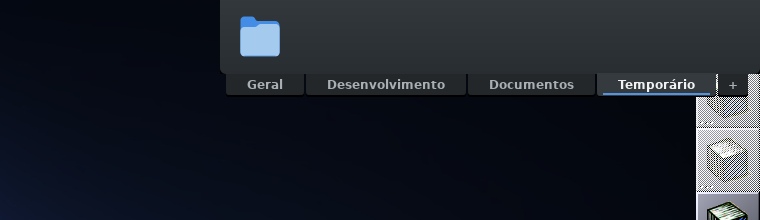
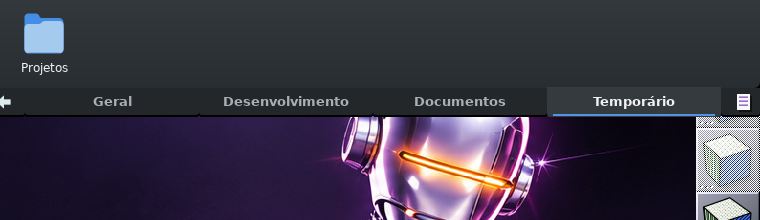
Big Tabbed Dock: testes e documentação da prateleira de ponta a ponta
- Testes de sessão: largura total por padrão (X11: x=0 e strut de toda a
  largura; Wayland: âncora esquerda+direita na largura útil), seta que
  recolhe e borda que traz de volta; auto-ocultar aceita a largura que o
  compositor dá.
- docs: referência do OPENSTEP 4.0 beta (largura, abas, botões, mármore),
  estilos Clássico/Ladrilhos/Moderno, Version=2 e migração, resultados
  (sessões: 105 PASS, 1 FAIL do wlmaker sem patch; integração do CI: 86
  PASS) e capturas reais novas.

diff --git a/docs/testes.md b/docs/testes.md
@@ -10,13 +10,22 @@ com login pelo greeter; o que depende disso está marcado como pendente.
 | Unitários do núcleo (GLib) | `meson test` — 5 programas, 23 casos: modelo, configuração (ida e volta, valores inválidos, recuperação de corrompido, .bak), índice .desktop e associação de janelas, coexistência (com `wdwrite` falso), lançamento (Exec com `%F`, nome de arquivo com `;$()'"`: nada executado por shell) | 5/5 ✅; também sob AddressSanitizer + LeakSanitizer + UBSan ✅ |
 | Estáticos do repositório | `tests/run.sh` (shellcheck, plists, .desktop, caminhos instalados, firstrun…) + passo novo do dock (build, testes, caminhos, tradução, proibição de `system`/`popen`/`sh -c`) | todos ✅ |
 | Pacote | `makepkg` do branch num contêiner `manjarolinux/base` limpo, como o CI | ✅ 4 pacotes (ver abaixo) |
-| Sessão X11 | Xvfb + Window Maker 0.96 + configuração do Big WindowMaker; mouse e teclado por `xdotool` | 37 ✅ |
-| Sessão Wayland | wlmaker `big-wm/protocols` `f11a08a` headless (pixman); ponteiro por `zwlr_virtual_pointer_v1` (`tests/tools/wlpointer.c`), teclado por `wtype` | 31 ✅, 1 ❌ (regressão do wlmaker), 2 pendentes |
-| Wayland com as propostas 0042–0044 | mesmo, wlmaker com os patches | 25 ✅ |
+| Integração do CI | `tests/integration/session-test.sh` no contêiner Manjaro fixado pelo CI, com os pacotes deste branch e os artefatos de big-windowmaker/packages (wlmaker pkgrel 7, que já traz 0042–0044) | 86 ✅, 0 ❌ ([resultados-integracao.tsv](resultados-integracao.tsv)) |
+| Sessão X11 | Xvfb + Window Maker 0.96 + configuração do Big WindowMaker; mouse e teclado por `xdotool` | 43 ✅ |
+| Sessão Wayland | wlmaker `big-wm/protocols` `f11a08a` **sem** patches, headless (pixman); ponteiro por `zwlr_virtual_pointer_v1` (`tests/tools/wlpointer.c`), teclado por `wtype` | 34 ✅, 1 ❌ (regressão do wlmaker, corrigida pelo 0044), 2 pendentes |
+| Wayland com 0042–0044 (= wlmaker empacotado hoje) | mesmo, wlmaker com os patches | 28 ✅ |
 | Memória (ASan) em uso real | dock compilado com `-Db_sanitize=address,undefined`, trocas de aba, lançamento, menu, arrasto, recarregar, preferências, sair (X11 e Wayland) | nenhum erro nem vazamento do código do dock (só alocações suprimidas de fontconfig/glib) |
 
-Resultados brutos: [resultados-2026-10-26.tsv](resultados-2026-10-26.tsv)
-(102 linhas: 93 PASS, 1 FAIL, 2 SKIP, 6 INFO).
+Resultados brutos das sessões: [resultados-sessoes.tsv](resultados-sessoes.tsv)
+(114 linhas: 105 PASS, 1 FAIL, 2 SKIP, 6 INFO).
+
+**Falha do CI corrigida (PR #3, run 40449635574)**: `wayland: dock com abas
+troca de aba (--tab)`. Reproduzida com o mesmo fluxo do CI: o `x11.sh` e o
+`wayland.sh` usam a mesma conta, o X11 deixava a aba Desenvolvimento ativa e
+o dock, corretamente, a lembrava no Wayland; o `--tab next` levava então a
+Documentos. O teste agora verifica essa memória entre sessões e troca a
+partir de uma aba conhecida (`--tab 1`, `--tab next`). Nenhuma mudança no
+dock foi necessária.
 
 ## Como reproduzir
 
@@ -37,7 +46,9 @@ num sistema real (`make install-*`, `meson install`) e aplicam o
 
 ## O que foi verificado em cada sessão
 
-**X11 (37 ✅)**: tipo dock e strut parcial; encostado na borda; 4 abas;
+**X11 (43 ✅)**: tipo dock e strut parcial; de ponta a ponta por padrão (x=0,
+1600 px, strut de 0 a 1599); a seta recolhe a prateleira (e tira a reserva),
+tocar a borda a traz de volta e ela fica (sem auto-ocultar); 4 abas;
 troca de aba por clique, rolagem, `Super+Alt+1`, `Super+Alt+PgDn` e `--tab`;
 lançar o xterm pelo dock; indicador e janela ativa; clique minimiza, clique
 restaura; botão do meio abre 2ª janela; clique alterna entre as janelas;
@@ -50,7 +61,9 @@ moderno + strut no topo; auto-ocultar (faixa, sem strut, reaparece na borda);
 preferências; `GDK_SCALE=2`; `--dock-mode=tabbed` grava `DisableDock` pelo
 `wdwrite` sem tocar o WMState e `both` reverte.
 
-**Wayland (31 ✅)**: cliente nativo em layer-shell; rastreamento por
+**Wayland (34 ✅)**: de ponta a ponta (âncora esquerda+direita; o wlmaker dá
+a largura útil, 1536 px ao lado do Clip); a seta recolhe e a borda traz de
+volta; cliente nativo em layer-shell; rastreamento por
 `ext-foreign-toplevel-list`; ancorado na borda; abas por clique, rolagem e
 `--tab`; lançar a calculadora (GTK 4) com indicador por app_id; clique num app
 que não pode ser ativado abre o menu de janelas (no pressionar do botão) em vez de duplicar; app
@@ -69,7 +82,7 @@ mesmo teste passa). **Pendentes**: tecla `Logo+Alt+N` no wlmaker (o `wtype` não
 aciona atalhos de dois modificadores no headless — o comando que ela chama é
 testado); religar uma saída (o headless do wlroots remove a saída desligada).
 
-**Com as propostas 0042–0044 (25 ✅)**: backend
+**Com as propostas 0042–0044 (28 ✅)**: backend
 `wayland-wlr-foreign-toplevel` (caps=31); estado ativo; clique minimiza;
 clique restaura e ativa; alternar entre duas janelas; zona exclusiva respeitada;
 e os demais testes funcionais iguais.
@@ -87,6 +100,7 @@ depois de iniciar o dock, com os caches descartados antes.
 |---|---|---|
 | Primeiro quadro (1ª execução, fria / seguintes) | 85,5 ms / 24,3 e 25,4 ms | 83,7 ms / 27,9 e 27,8 ms |
 | PSS / USS / RSS do dock | 25,5 / 18,0 / 41,4 MB | 26,4 / 17,1 / 42,3 MB |
+| PSS no fim do teste funcional, visual de ponta a ponta (mármore 2× 256×256, nomes) | 28,4 MB | 25,6 MB |
 | Threads | 7 | 8 |
 | CPU ociosa em 60 s | 0 ticks | 0 ticks |
 | PSS da sessão antes → depois | 77,5 → 124,1 MB | 30,6 → 82,0 MB |

diff --git a/docs/x11-wayland.md b/docs/x11-wayland.md
@@ -7,13 +7,13 @@ fora do dock (proposta pronta) · ❓ pendente de hardware/sessão real.
 |---|---|---|
 | Cliente nativo | ✅ janela `_NET_WM_WINDOW_TYPE_DOCK`, sem foco, em todas as áreas de trabalho | ✅ superfície `zwlr_layer_shell_v1` (camada TOP), sem nenhuma API X11 |
 | Posição e alinhamento | ✅ | ✅ (o wlmaker centraliza na **área útil**, descontando o Clip: o dock fica alguns pixels à direita do centro da tela — comportamento do compositor) |
-| Reserva de espaço | ✅ `_NET_WM_STRUT` + `_PARTIAL` (o Window Maker reserva a borda inteira; ícones e janelas maximizadas respeitam) | ⏳ zona exclusiva enviada corretamente; o wlmaker `f11a08a` (head atual do fork) **não** a aplica ao maximizar — regressão do próprio wlmaker, corrigida pela proposta 0044 (testado: a moldura passa a terminar no topo do dock); no snapshot anterior `c7bcb50` era respeitada |
+| Reserva de espaço | ✅ `_NET_WM_STRUT` + `_PARTIAL` (o Window Maker reserva a borda inteira; ícones e janelas maximizadas respeitam) | ✅ com o wlmaker empacotado (pkgrel 7, que inclui a proposta 0044); o head do fork `f11a08a` sem o 0044 não aplica a zona ao maximizar (regressão do wlmaker) |
 | Auto-ocultar | ✅ a janela fica no lugar e vira uma faixa de 4 px pela forma (o Window Maker ignora mover janelas dock) | ✅ a superfície encolhe para 4 px |
 | Vários monitores | 🔧 escolha por nome RandR, índice ou principal; ❓ não testado com dois monitores (o Xvfb dá um só ao GTK 3) | ✅ nome do conector por xdg-output (o GTK 3 diz "Unknown"), índice, ou a saída na origem; saída removida → volta para outra |
 | Mudança de resolução | ✅ (xrandr 1600×900 → 1280×720) | ✅ (wlr-randr) |
 | Escala HiDPI | ✅ `GDK_SCALE=2` | 🔧 escala inteira do GTK 3; fracionária vira escala inteira reduzida pelo compositor |
 | Aplicativos em execução | ✅ `_NET_CLIENT_LIST`, WM_CLASS, `_GTK_APPLICATION_ID`, pid | ✅ app_id pelo `ext-foreign-toplevel-list` |
-| Janela ativa / minimizada | ✅ `_NET_ACTIVE_WINDOW`, `_NET_WM_STATE_HIDDEN`/WM_STATE | ⏳ o protocolo ext não tem estado; com o patch proposto ✅ |
+| Janela ativa / minimizada | ✅ `_NET_ACTIVE_WINDOW`, `_NET_WM_STATE_HIDDEN`/WM_STATE | ✅ com o wlmaker empacotado (wlr-foreign-toplevel, proposta 0042); só com `ext-foreign-toplevel-list`, sem estado |
 | Ativar janela existente | ✅ `_NET_ACTIVE_WINDOW` (fonte 2, troca de área de trabalho) | 🔧 aplicativo DBusActivatable: `org.freedesktop.Application.Activate` com token xdg-activation (testado); os demais: menu com as janelas e "Nova janela" (nunca abre duplicata por engano); ⏳ com o patch ✅ |
 | Minimizar / restaurar / fechar | ✅ WM_CHANGE_STATE, `_NET_CLOSE_WINDOW` | ⏳ só com o patch proposto (testado com ele) |
 | Alternar janelas do mesmo app | ✅ clique e rolagem | ⏳ com o patch ✅ |
@@ -25,7 +25,7 @@ fora do dock (proposta pronta) · ❓ pendente de hardware/sessão real.
 | Token de lançamento | startup-notification (o Window Maker ignora) | ✅ `XDG_ACTIVATION_TOKEN` do GTK em todo lançamento |
 | Dock clássico junto | ✅ Dock do Window Maker à direita | ✅ `wlmdock` à direita |
 
-## O que falta no wlmaker (propostas, não aplicadas)
+## O que faltava no wlmaker (propostas, adotadas no pacote wlmaker pkgrel 7)
 
 Em [propostas/](propostas/), gerados contra uma cópia exportada do branch
 `big-wm/protocols` em `f11a08a` (o repositório do fork não foi alterado):

diff --git a/docs/propostas/README.md b/docs/propostas/README.md
@@ -1,7 +1,8 @@
-# Propostas fora deste repositório (não aplicadas)
+# Propostas fora deste repositório
 
-Nada aqui foi aplicado em `big-wm-packages`, `big-wm-iso-profiles` nem no fork
-`big-wm-wlmaker`: são diffs para revisão.
+Escritas como diffs para revisão. Os três patches do wlmaker foram adotados
+pelo pacote `wlmaker` de big-windowmaker/packages (pkgrel 7), que o CI deste
+repositório já usa; a lista da ISO segue como proposta.
 
 ## 1. wlmaker: wlr-foreign-toplevel-management, título e zona exclusiva
 
